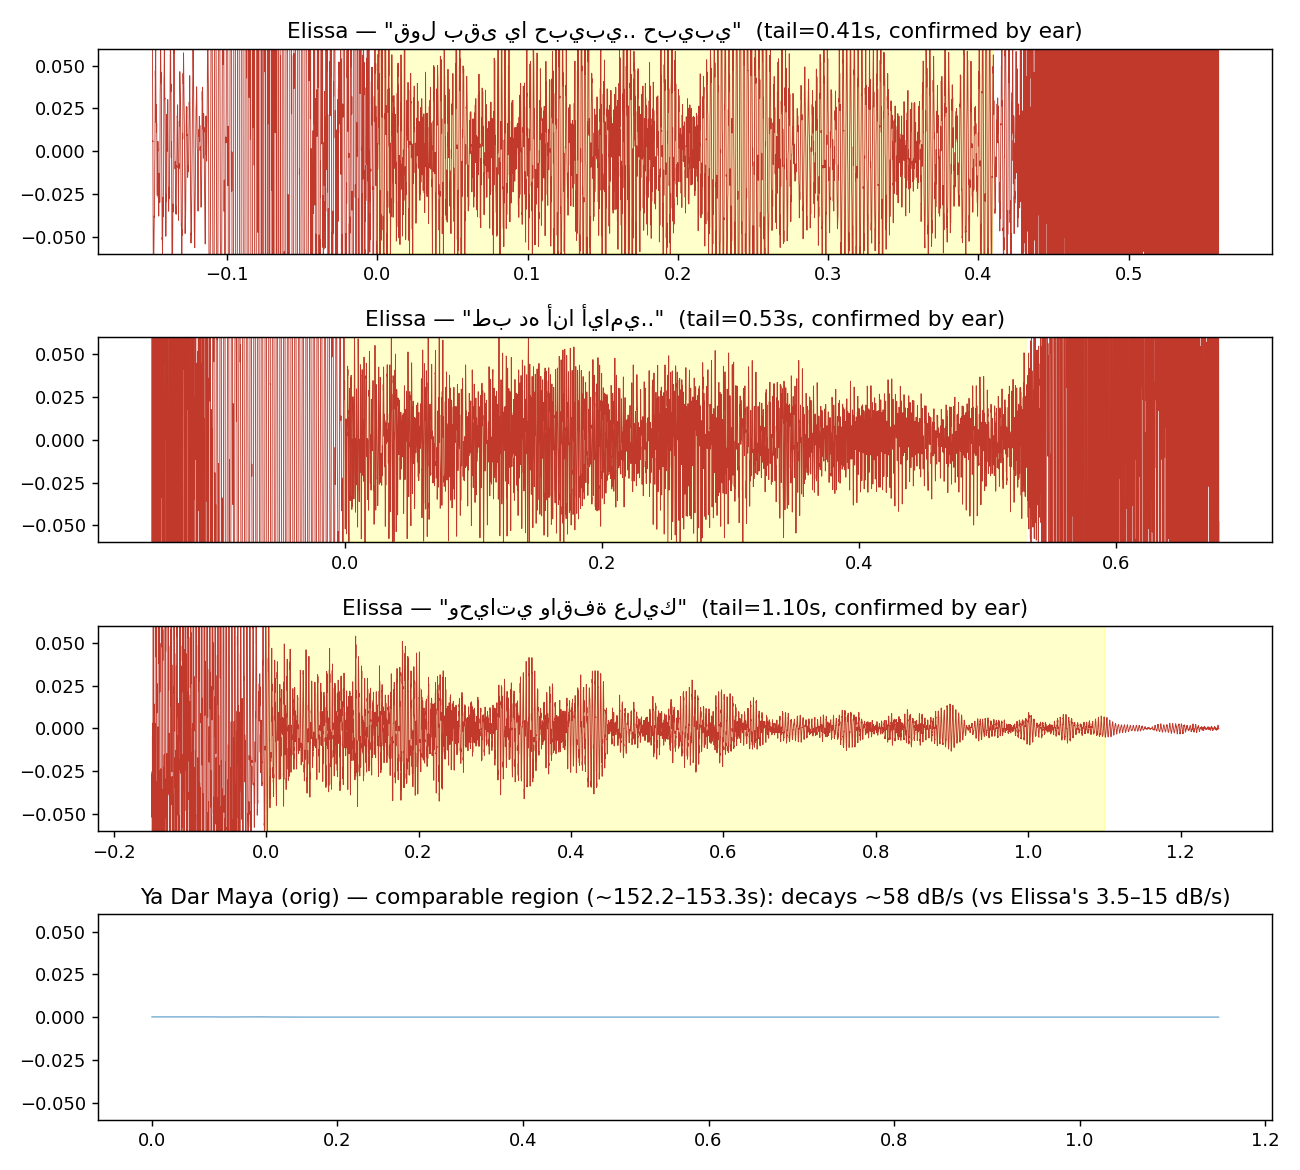
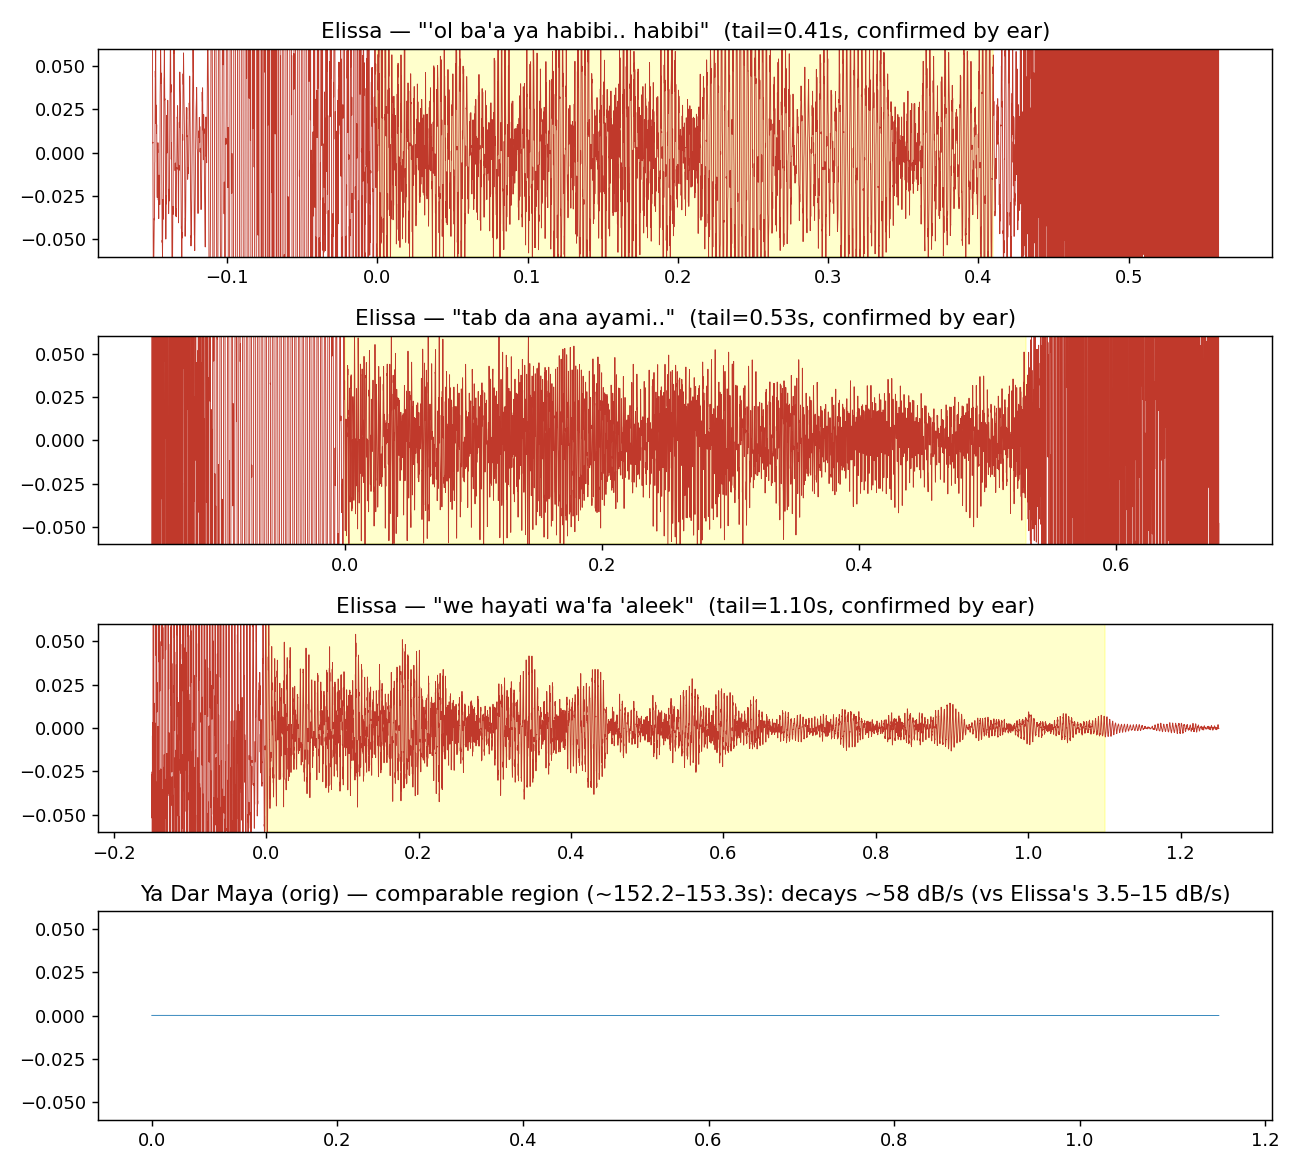
Lab 3

diff --git a/LABS/session_2026-07-29T054751/scripts/plot_human_verified_reverb_tails.py b/LABS/session_2026-07-29T054751/scripts/plot_human_verified_reverb_tails.py
@@ -1,0 +1,53 @@
+"""
+Plots the three human-verified reverb-tail segments in Elissa's vocal
+(confirmed by ear, see LABS/session_2026-07-29T054751/reverb_tail_investigation.md
+and the owner's timestamps), alongside a comparable Ya Dar Maya (Suno) segment.
+
+NOTE ON ARABIC TEXT: matplotlib does not perform Arabic script shaping or
+bidi reordering, so Arabic lyric text in plot titles renders as disconnected,
+visually-reversed glyphs. We use Latin transliteration in the titles instead
+(the original Arabic is kept in a comment below for reference).
+"""
+import numpy as np
+import librosa
+import matplotlib.pyplot as plt
+
+def mmss_to_sec(s):
+    m, rest = s.split(':')
+    return int(m) * 60 + float(rest)
+
+# Original Arabic lyrics (kept for reference; do not use directly as plot text):
+#   "قول بقى يا حبيبي.. حبيبي"
+#   "طب ده أنا أيامي.."
+#   "وحياتي واقفة عليك"
+segments = [
+    ("\"'ol ba'a ya habibi.. habibi\"", mmss_to_sec('02:20.37'), mmss_to_sec('02:20.78')),
+    ("\"tab da ana ayami..\"", mmss_to_sec('02:27.13'), mmss_to_sec('02:27.66')),
+    ("\"we hayati wa'fa 'aleek\"", mmss_to_sec('02:32.60'), mmss_to_sec('02:33.70')),
+]
+
+y, sr = librosa.load('data/elisa_maktooba_leek/elisa_maktooba_leek-Vocals.mp3', sr=22050, mono=True)
+y2, sr2 = librosa.load('data/يا دار مية - 28-07-2026/يا دار مية - 28-07-2026-Vocals.mp3', sr=22050, mono=True)
+
+fig, axes = plt.subplots(4, 1, figsize=(10, 9))
+pad = 0.15
+for ax, (text, start, end) in zip(axes[:3], segments):
+    s_idx = int((start - pad) * sr); e_idx = int((end + pad) * sr)
+    seg = y[s_idx:e_idx]
+    t = np.arange(len(seg)) / sr - pad
+    ax.plot(t, seg, linewidth=0.5, color="#c0392b")
+    ax.axvspan(0, end - start, color="yellow", alpha=0.2)
+    ax.set_title(f"Elissa — {text}  (tail={end-start:.2f}s, confirmed by ear)")
+    ax.set_ylim(-0.06, 0.06)
+
+# comparable Suno segment (Ya Dar Maya, ~153.19s, best available real signal before cutoff)
+s_idx = int((152.19) * sr2); e_idx = int((153.34) * sr2)
+seg2 = y2[s_idx:e_idx]
+t2 = np.arange(len(seg2)) / sr2
+axes[3].plot(t2, seg2, linewidth=0.5, color="#2980b9")
+axes[3].set_title("Ya Dar Maya (orig) — comparable region (~152.2–153.3s): decays ~58 dB/s (vs Elissa's 3.5–15 dB/s)")
+axes[3].set_ylim(-0.06, 0.06)
+
+plt.tight_layout()
+plt.savefig('LABS/session_2026-07-29T054751/plots/human_verified_reverb_tails.png', dpi=130)
+print("saved")
